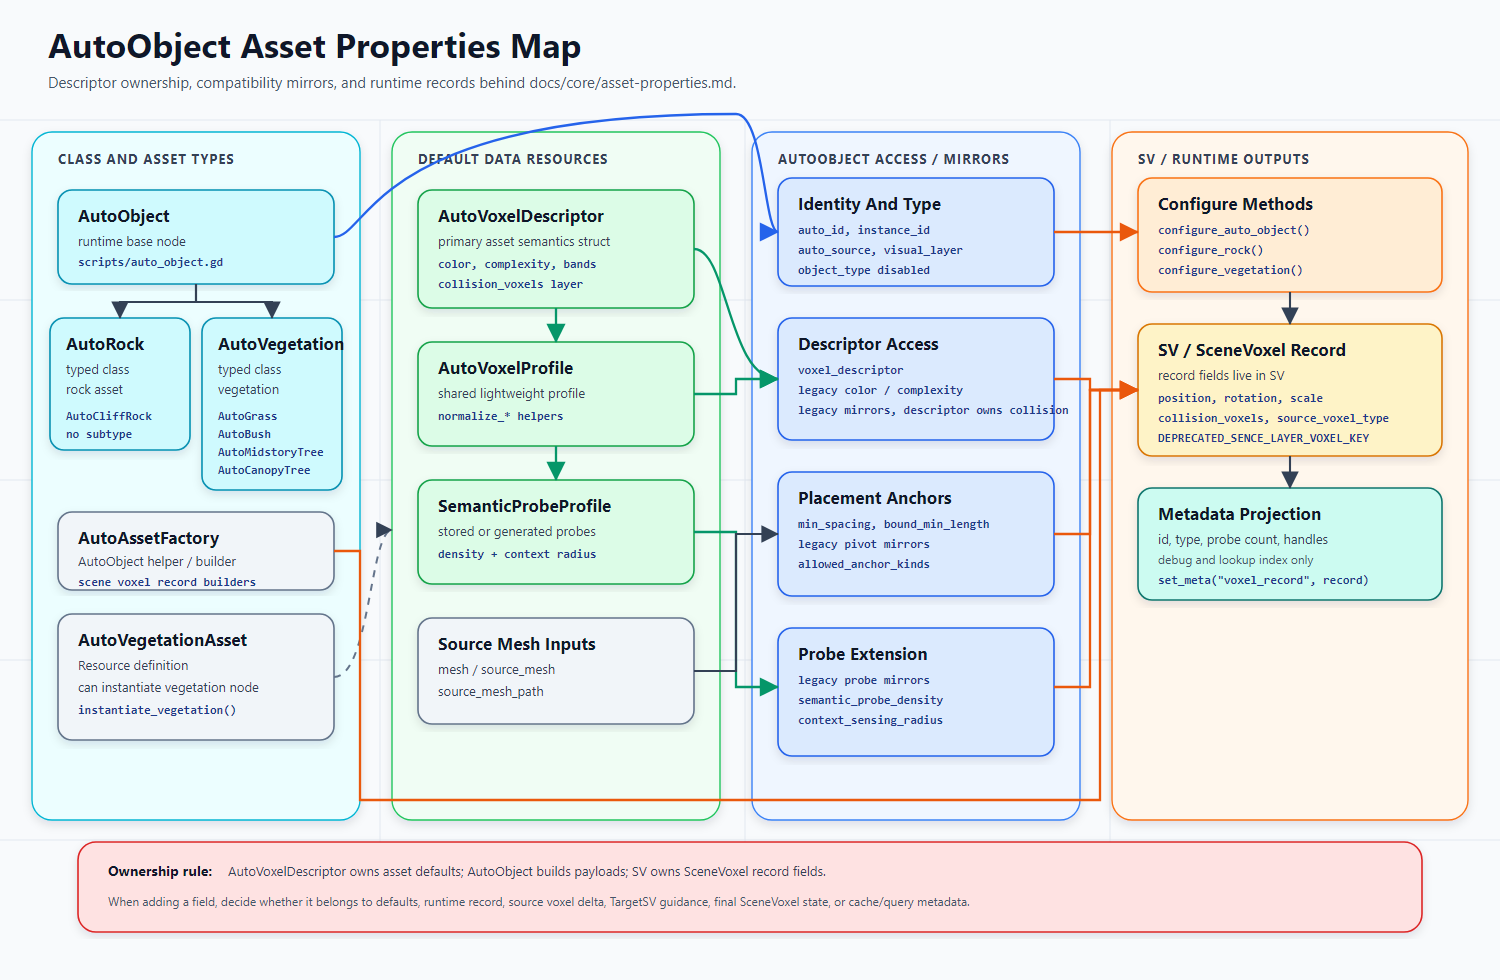
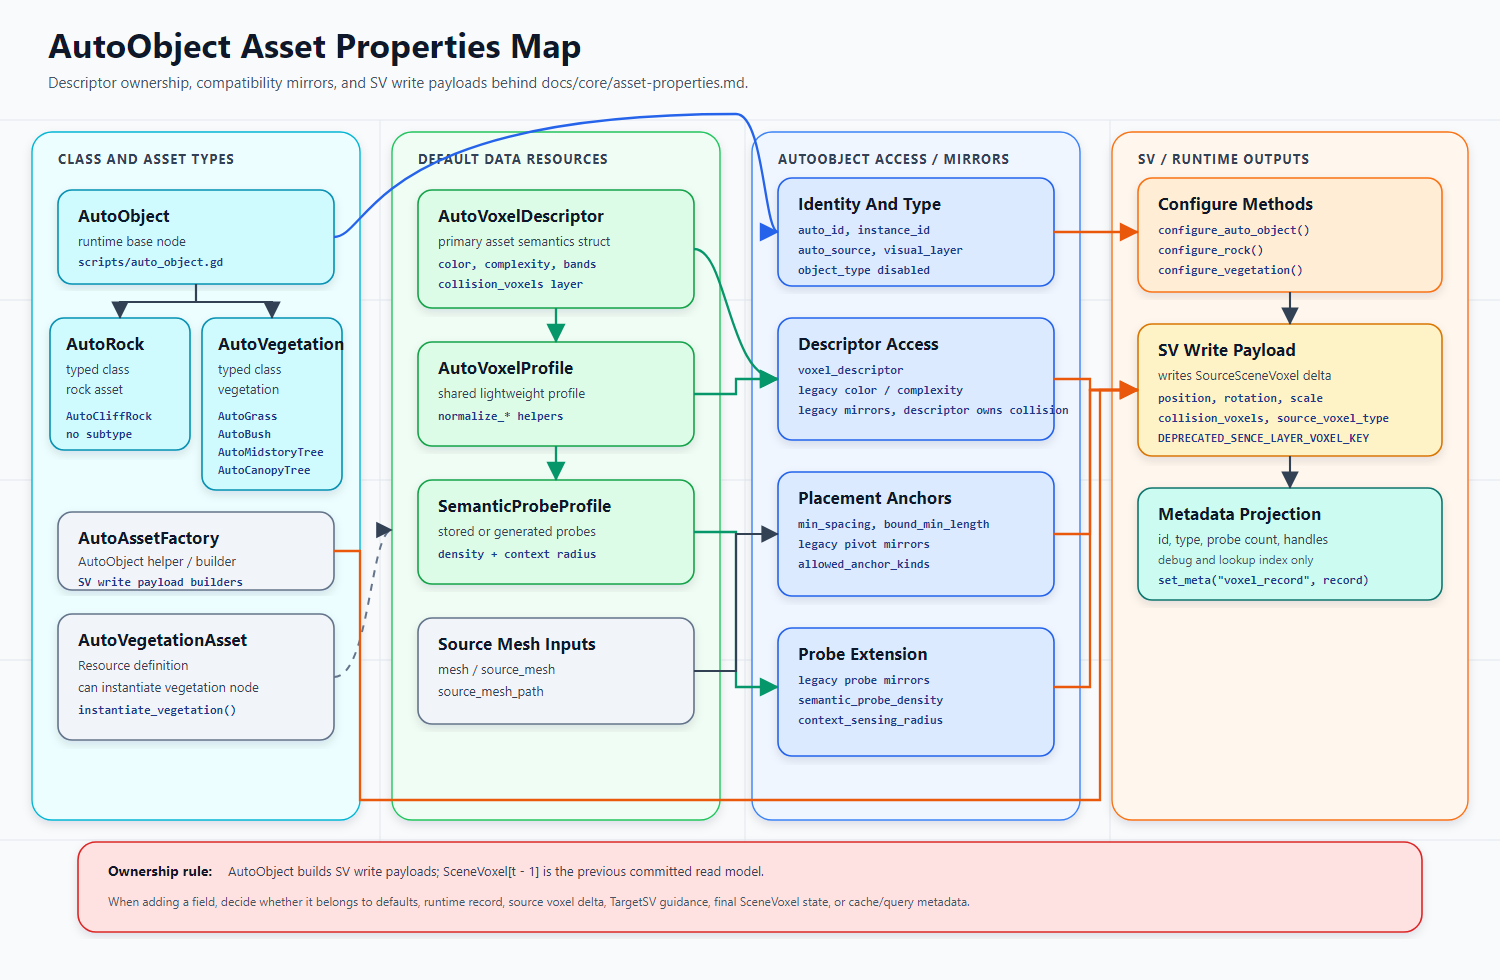
Clarify SV write payload terminology

diff --git a/docs/core/asset-properties.md b/docs/core/asset-properties.md
@@ -56,7 +56,7 @@
 | `semantic_probe_density` | `float` | legacy descriptor 兼容入口；同步到 `voxel_descriptor.semantic_probe_density`。 |
 | `context_sensing_radius` | `float` | legacy descriptor 兼容入口；同步到 `voxel_descriptor.context_sensing_radius`。 |
 | `allowed_anchor_kinds` | `PackedStringArray` | 限制资产可参与的 anchor 类型，如 `ground`、`target_top`。 |
-| `voxel_record` | `Dictionary` | SceneVoxel record handle；字段结构见 `scene-voxel-field-system.md`。 |
+| `voxel_record` | `Dictionary` | SV write payload / query handle；字段结构见 `scene-voxel-field-system.md`。 |
 
 读取资产语义时必须走 `voxel_descriptor` 或 `get_voxel_color()`、`get_affected_bands()`、`get_collision_voxels()`、`get_pivot_variants()` 等 getter；这些 getter 会通过 `_ensure_voxel_descriptor()` 使用 descriptor，并返回归一化后的结果。不要在新逻辑中直接读取 `voxel_color`、`voxel_complexity`、`affected_bands`、`collision_voxels`、`pivot_variants`、`semantic_probe_profile`、`semantic_probe_density` 或 `context_sensing_radius` 作为权威语义。
 
@@ -120,9 +120,9 @@
 
 Collision 的最终归属见 `scene-voxel-field-system.md`：`collision_voxels` 与 `color` / `complexity` 同级，从资产默认值进入 record / source voxel，并可作为 committed `SceneVoxel` 的同级字段保留；提交后的 `collision_occupancy` 是由它重建的派生查询缓存视图。
 
-## SV record 边界
+## SV write payload 边界
 
-`voxel_record` 属于 `SV` / `SceneVoxel` record payload 和 source voxel delta 数据，不是资产默认值主结构，也不是 `AutoObject` 的最终 schema。本文件只记录它在 `AutoObject` 和 metadata 上的查询入口；字段 schema、source 类型和提交规则见 `scene-voxel-field-system.md`。
+`voxel_record` 属于 `SV` / `SceneVoxel` write payload 和 source voxel delta 数据，不是资产默认值主结构，也不是 `AutoObject` 的最终 schema。本文件只记录它在 `AutoObject` 和 metadata 上的查询入口；字段 schema、source 类型和提交规则见 `scene-voxel-field-system.md`。
 
 ## Metadata 规则
 

diff --git a/docs/README.md b/docs/README.md
@@ -17,7 +17,7 @@ This folder keeps MeshFill architecture notes, data schemas, pipeline plans, gen
 | --- | --- |
 | [`core/meshfill-framework.md`](core/meshfill-framework.md) | MeshFill ownership model, runtime flow, current modules, and framework rules |
 | [`core/asset-properties.md`](core/asset-properties.md) | Current `AutoObject`, descriptor, profile, and metadata field reference |
-| [`core/scene-voxel-field-system.md`](core/scene-voxel-field-system.md) | Runtime `voxel_record`, source voxel deltas, final `SceneVoxel`, and `GlobalVoxelField` cache design |
+| [`core/scene-voxel-field-system.md`](core/scene-voxel-field-system.md) | SV write payloads, source voxel deltas, final `SceneVoxel`, and `GlobalVoxelField` cache design |
 | [`core/auto-asset-scripting.md`](core/auto-asset-scripting.md) | Scripted rock and vegetation asset creation through Godot headless tools |
 | [`core/asset-semantic-probes.md`](core/asset-semantic-probes.md) | Asset-side semantic probes used by prefilter and candidate-only route validation |
 

diff --git a/docs/core/scene-voxel-field-system.md b/docs/core/scene-voxel-field-system.md
@@ -126,7 +126,7 @@ AutoVoxelDescriptor / brush edit / target guidance
 
 ## `voxel_record`
 
-`voxel_record` 是写入 `SV` / `SceneVoxel` 的 record payload，由 `AutoAssetFactory.make_profile_scene_voxel_record()`、typed wrapper 或 placement builder 生成。最终字段归属在 `SourceSceneVoxel` / committed `SceneVoxel`；`AutoObject` 只生成或保存 handle，不拥有最终 record schema。
+`voxel_record` 是本轮写入 `SV` / `SceneVoxel` 的 write payload，由 `AutoAssetFactory.make_profile_scene_voxel_record()`、typed wrapper 或 placement builder 生成。它不是上一轮 `SceneVoxel`；上一轮 committed read model 明确写作 `SceneVoxel[t - 1]`。最终字段归属在 `SourceSceneVoxel` / committed `SceneVoxel`；`AutoObject` 只生成或保存 handle，不拥有最终 record schema。
 
 | 字段 | 含义 |
 | --- | --- |

diff --git a/docs/graphs/README.md b/docs/graphs/README.md
@@ -6,7 +6,7 @@
 
 | 文件 | 说明 | 关联文档 |
 | --- | --- | --- |
-| `autoobject_asset_properties.svg` | `AutoObject`、`AutoVoxelDescriptor`、legacy 字段、`voxel_record` 和 metadata 的归属图 | `docs/core/asset-properties.md` |
+| `autoobject_asset_properties.svg` | `AutoObject`、`AutoVoxelDescriptor`、legacy 字段、SV write payload 和 metadata 的归属图 | `docs/core/asset-properties.md` |
 | `meshfill_current_framework.svg` | 当前 MeshFill 框架、运行时模块和数据流概览 | `docs/core/meshfill-framework.md` |
 | `meshfill_compute_shader_3d_placement.svg` | 3D voxel placement compute shader pipeline | `docs/history/voxel-3d-migration-plan.md` |
 | `autoobject_probe_scoring_logic.svg` | AutoObject semantic probe scoring 和 GPU prefilter 逻辑 | `docs/placement/autoobject-probe-prefilter.md` |
